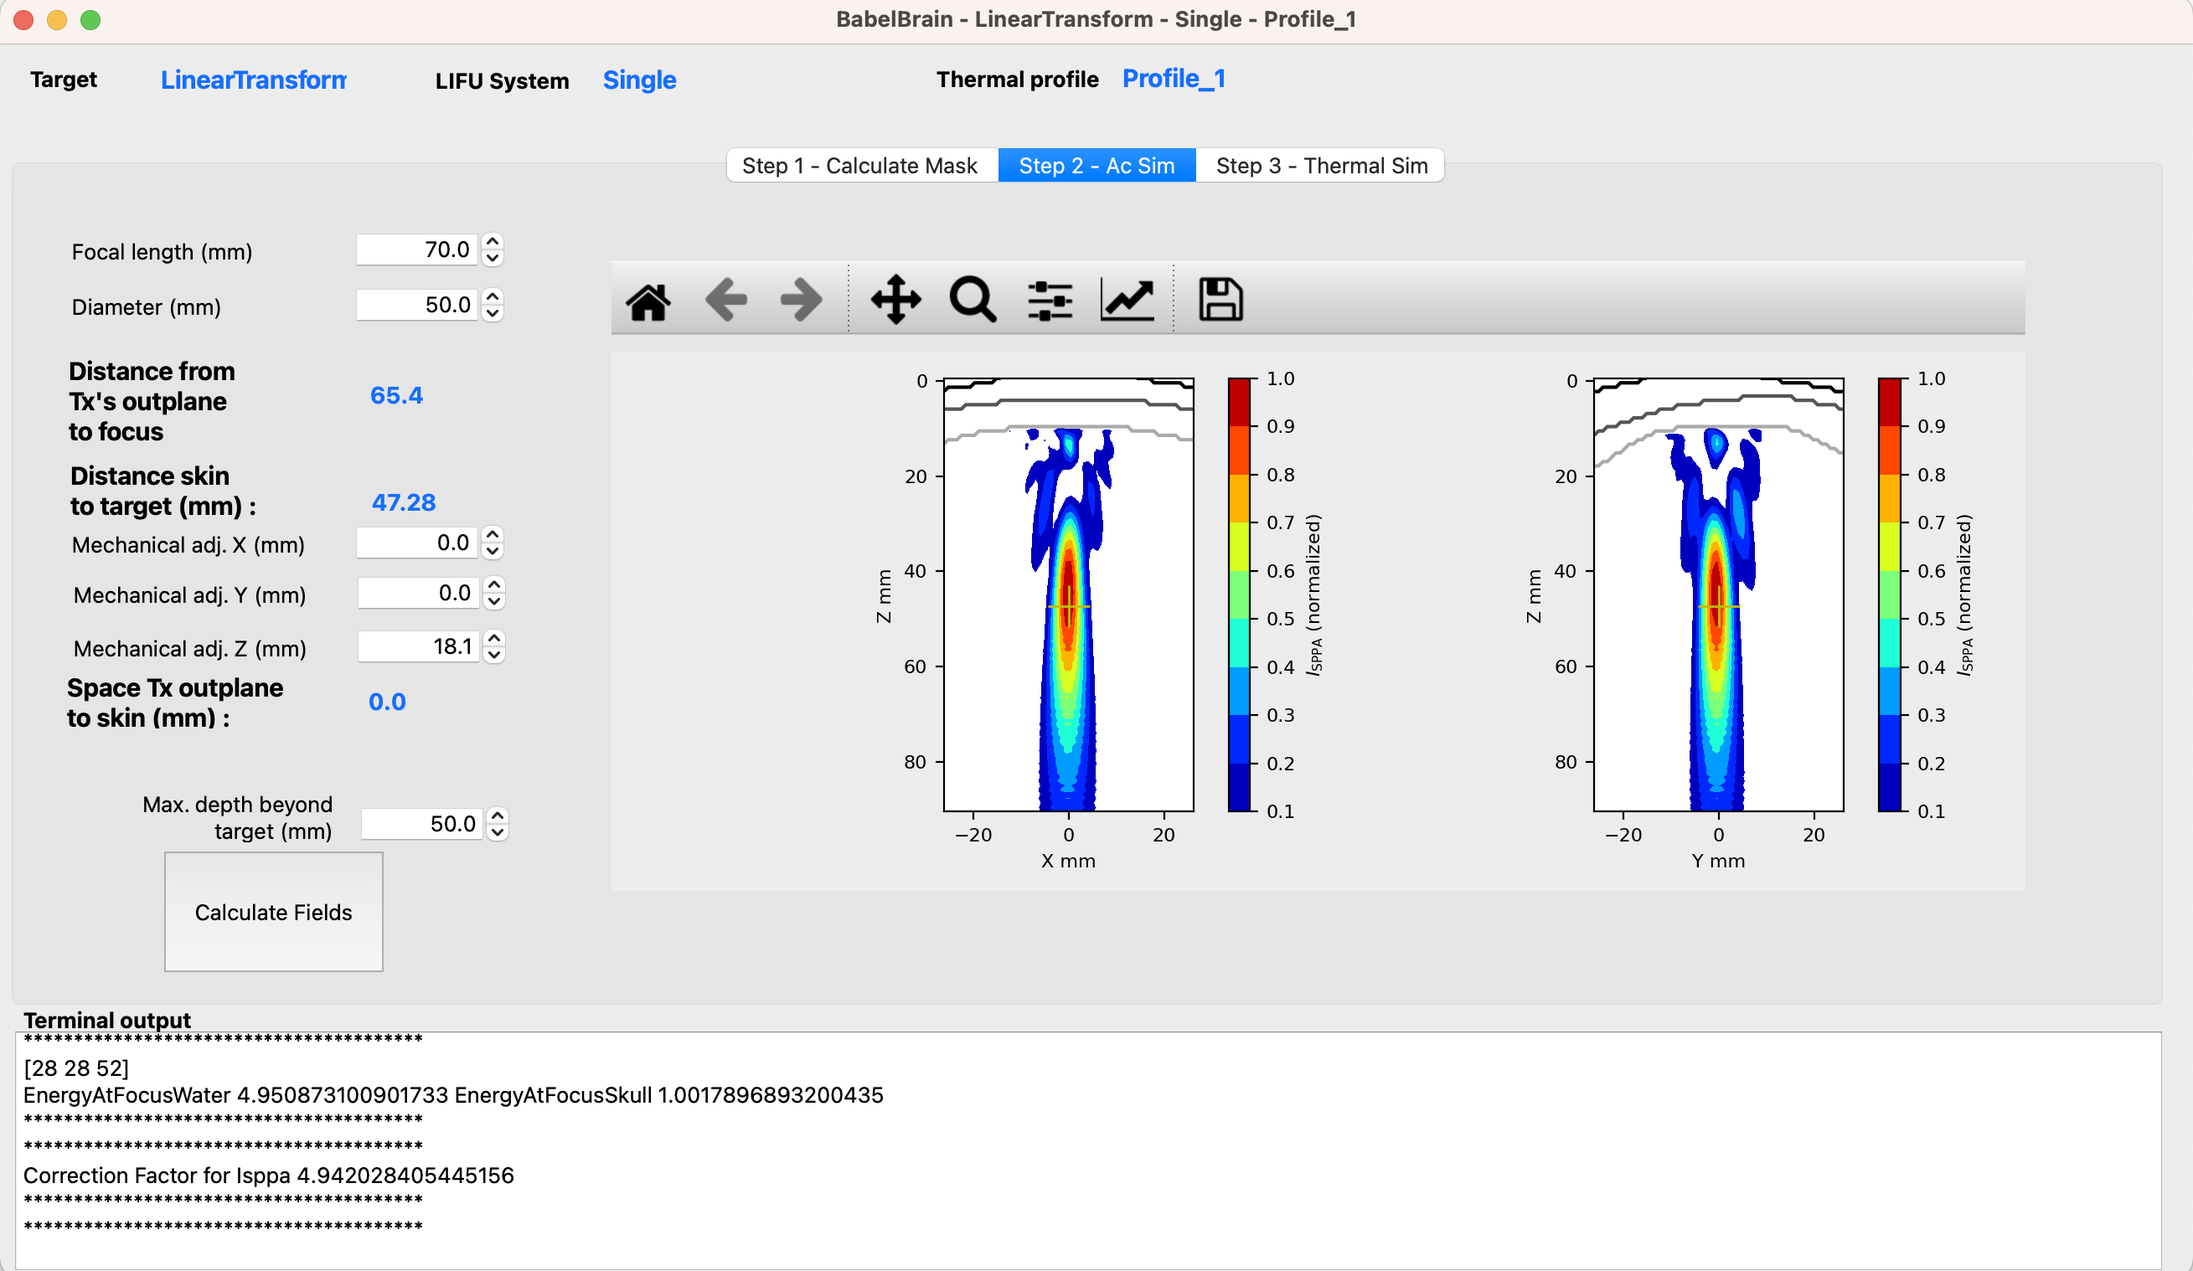
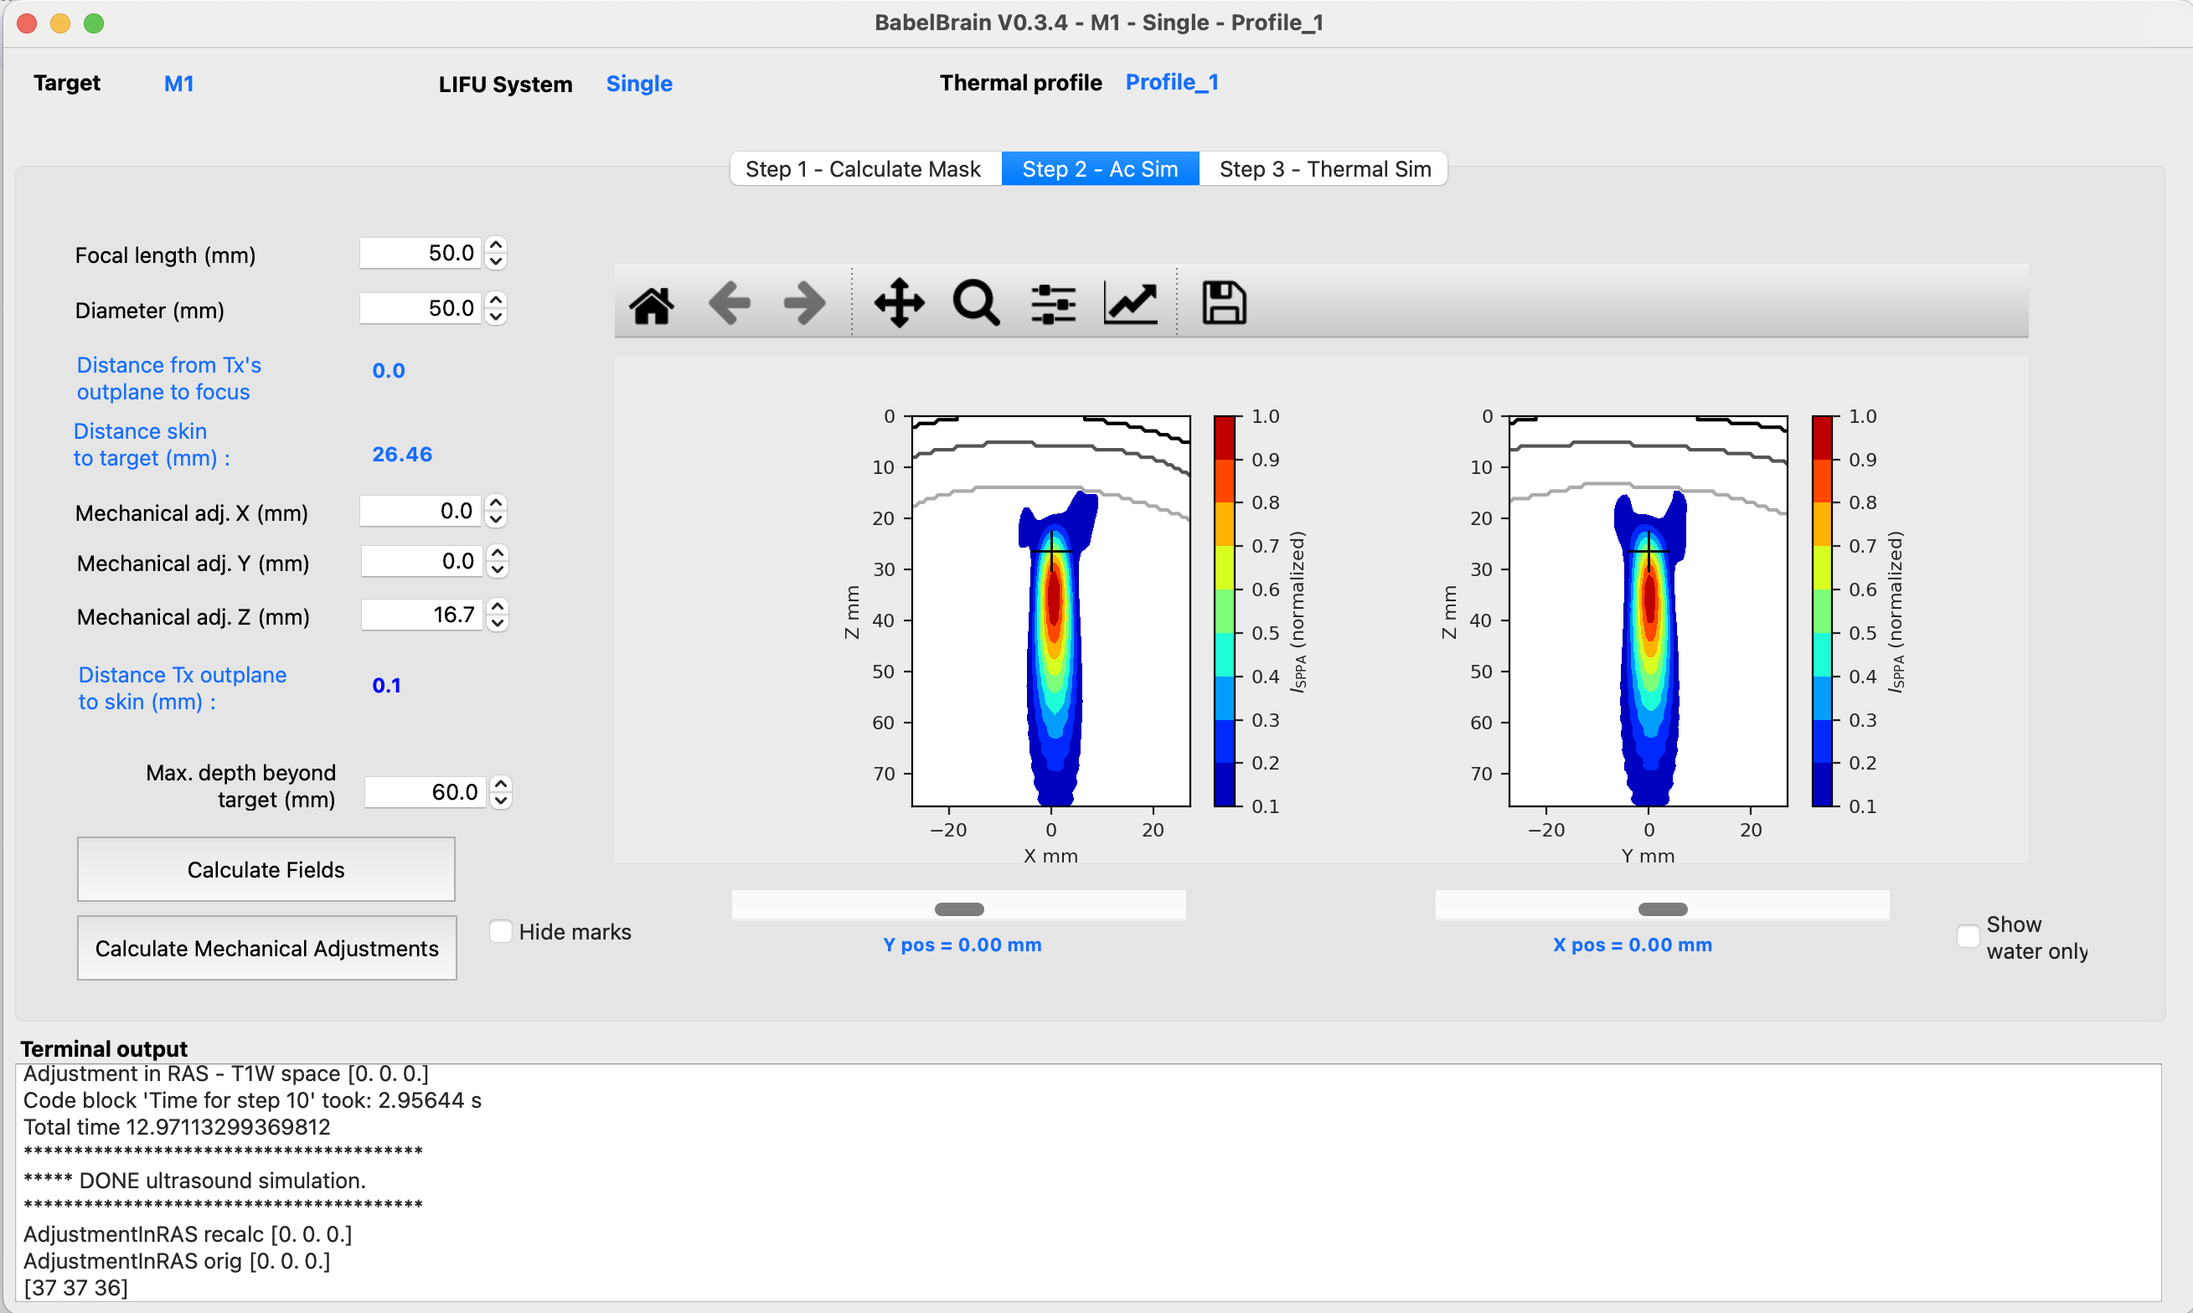
update for r0.3.4

diff --git a/docs/docs/pipeline/pipeline.md b/docs/docs/pipeline/pipeline.md
@@ -6,11 +6,14 @@ BabelBrain takes 3D imaging data (MRI and, if available, CT) along with a trajec
 
 Currently, five types of transducers are supported:
 
-* **Single**. This is a simple focusing single-element transducer. The user can specify diameter, focal length and a frequency between 100 kHz and 700 kHz.
-* **H317**. This is a 128-element phased array with a focal length of 135 mm and F#=0.9. The device is capable to operate at 250 kHz and 700 kHz.
+* **Single**. This is a simple focusing single-element transducer. The user can specify diameter, focal length and a frequency between 100 kHz and 1 MHz.
+* **H317**. This is a 128-element phased array with a focal length of 135 mm and F#=0.9. The device is capable to operate at 250, 700 and 825 kHz.
 * **CTX_500**. This is a device commercialized by the company NeuroFUS that has 4 ring elements, with a focal length of 63.2 mm and F# = 0.98, and operates at 500 kHz.
 * **H246**. This is a flat ring-type device that has 2 annular elements, with a diameter of 33.6 mm and operates at 500 kHz. It offers some degree of focusing by using two transducer elements.
 * **BSonix**. These are devices commercialized by the company Brainsonix at fixed focal lengths of 35, 55, 65 and 80 mm as reported in [Schafer *et al.*](https://doi.org/10.1109/TUFFC.2020.3006781).
+* * **I12378**. This is a 128-element device operating at 650 kHz with a focal length of 72 mm and F#=0.7.
+* **ATAC**. This is a 128-element device operating at 1 MHz with a focal length 53.2 mm and F#=0.9.
+* **REMOPD**.This is a 256-element flat 2D array operating at 300 kHz with a diameter of 58 mm.
 
 The specific capabilities of each transducer are considered during the simulations. 
 
@@ -201,12 +204,30 @@ An input dialog will prompt the different input files required for the simulatio
              DurationOff: 50.0
      ```
 
-    When running the thermal simulation step, all the combinations specified in the thermal profile will be calculated. 
+    When running the thermal simulation step, all the combinations specified in the thermal profile will be calculated.
+     
 
+7. Select the type of transducer to be used in simulations.
 
-6. Select the type of transducer to be used in simulations.
+6. Optional. Select a multi-point profile file for simulations. BabelBrain offers the possibility to execute electronic steering over a list of points if a concave array is selected. If any of the three concave arrays is selected (H317, I12378 and ATAC), the user can select a profile definition specific to multi-point steering. This is a simple YAML file where the timings of transcranial ultrasound are specified. For example:
+   
+     ```
+     MultiPoint:
+     -   X: 2.0
+         Y: 0.0
+         Z: 0.0
+     -   X: -1.0
+         Y: 1.73205081
+         Z: 0.0
+     -   X: -1.0
+         Y: -1.73205081
+         Z: 0.0
+     ```
+
+    In this example, we create a 3-point steering list that makes a 3-point star with a radius from the origin of 2 mm.
 
 7. Once all inputs are set, then click on "CONTINUE"
+   
 ## 3.b - Domain generation
 The diagram below shows flowchart describing the process for the domain generation.
 
@@ -240,24 +261,31 @@ The second tab in the GUI of BabelBrain shows the ultrasound simulation step.  T
 
 <img src="nsclc2-V2.svg" height=600px>
 
-The choices of this tab will depend on the selected transducer. Simulation results in this step are shown in normalized conditions. The final step (see below) later will show the results denormalized in function of the selected intensity at the target. Common to all transducers, the distance of the maximal depth beyond the target location is set to a user-configurable distance of 40 mm.
+The choices of this tab will depend on the selected transducer. Simulation results in this step are shown in normalized conditions. The final step (see below) later will show the results denormalized in function of the selected intensity at the target. 
+
+Common to all transducers, the distance of the maximal depth beyond the target location is set to a user-configurable distance of 40 mm.
+
+Also, all transducers show an action to perform automatic mechanical corrections in the direction perpendicular to the ultrasound propagation. See below the details in the explanations for the CTX 500 device regarding mechanical corrections.
 
 ### 3.c.i - CTX_500
-For the CTX_500 transducer, the initial assumption is that this type of transducer will be placed in direct contact with the skin and that the focusing distance will be adjusted according to the desired target. 
+<img src="Simulation-7.png" height=350px>
 
-<img src="Simulation-5.png" height=350px>
+For the CTX_500 transducer, the initial assumption is that this type of transducer will be placed in direct contact with the skin and that the focusing distance will be adjusted according to the desired target. 
 
 The initial "TPO Distance" (an adjustable parameter in the CTX_500 device) is calculated based on the distance skin to the target. 
 
 It is recommended to simulate with the default values to evaluate the degree of focus shift caused by the skull. Simulation should take a couple of minutes in a M1 Max system.
 
-<img src="Simulation-6.png" height=450px> 
+The results window will show two orthogonal views of normalized acoustic intensity. The intensity in the skin and skull regions is masked out (it can be visualized later in those regions in step 3). In this step, the main goal is to ensure a correct spatial focusing on the target. In the example, a shift of 5 mm of the focal spot towards the transducer can be observed. This shift can be corrected by adding 5 mm in the TPO Distance input (in the example, we adjust to 52.5 mm). 
 
-The results window will show two orthogonal views of normalized acoustic intensity. The intensity in the skin and skull regions is masked out (it can be visualized later in those regions in step 3). In this step, the main goal is to ensure a correct spatial focusing on the target. In the example, a shift of 5 mm of the focal spot towards the transducer can be observed. This shift can be corrected by adding 5 mm in the TPO Distance input (in the example, we adjust to 52.5 mm). Also, there is a small lateral shift in the negative "Y" direction. This can be corrected with the "Mechanical" adjustment controls (in this example we adjust +1mm in the Y direction). Please note that in the simulation domain, X, Y and Z are not mapped to subject coordinates. However, at the end of the simulations, there will be a report in which direction in the T1W space this adjustment translates. 
+Also, there is a small lateral shift in the negative "Y" direction. This can be corrected with the "Mechanical" adjustment controls (in this example we adjust +1mm in the Y direction). 
+ 
+After running a first pass of simulations in Step 2, a button action is available to calculate the distance from the target to the center of mass of the focal spot at -6dB and suggest applying the required mechanical corrections in X and Y directions. This action should help to minimize the number of iterations in simulations looking to ensure the focal spot is aligned in the X and Y directions to the intended target.
 
-After doing the adjustments, the simulation can be repeated.
+Please note that in the simulation domain, X, Y and Z are not mapped to subject coordinates. However, at the end of the simulations, there will be a report in which direction in the T1W space this adjustment translates. 
 
-<img src="Simulation-7.png" height=450px> 
+After making the adjustments, the simulation can be repeated.
+
 
 ### 3.c.ii - H246
 The H246 transducer has a similar operation as the CTX_500. The steps presented above apply similarly. As the H246 transducer has a much longer focal length, consider extending the maximal depth of simulations.
@@ -265,20 +293,25 @@ The H246 transducer has a similar operation as the CTX_500. The steps presented 
 <img src="Simulation-9.png" height=450px>
 
 
-### 3.c.iii - H317
-The H317 is a large transducer that uses a coupling cone that is in contact with the skin. The user interface shows small differences compared to CTX_500 and H246. There is a parameter for the `Distance cone to Focus` that depends on the acoustic cone used for coupling. Because this transducer has 128 elements, the user interface shows also the option to perform electronic refocusing.
+### 3.c.iii - H317, I12378 and ATAC
+These transducers assume that a coupling cone is in contact with the skin. The user interface shows small differences compared to CTX_500 and H246. There is a parameter for the `Distance cone to Focus` that depends on the acoustic cone used for coupling. Because these transducers are phased arrays, the user interface shows also the option to perform electronic refocusing and multifocus.
  
 <img src="Simulation-10.png" height=450px>
 
 ### 3.c.iv - Single
-The "Single" transducer is a generic device with a configurable diameter and focal length. Because this is a more general-purpose device, it is not assumed that the transducer is in direct contact with the skin. The transducer is always initially centered at the target, which can make that there could be some space between the transducer out plane and the skin. The user can adjust the mechanical distance on the Z axis until the point the out plane of the transducer reaches the skin.
+The "Single" transducer is a generic device with a configurable diameter and focal length. Because this is a more general-purpose device, it is not assumed that the transducer is in direct contact with the skin. The transducer is always initially centered at the target, which means that there could be some space between the transducer out plane and the skin. The user can adjust the mechanical distance on the Z axis until the point of the out plane of the transducer reaches the skin.
  
 <img src="Simulation-11.png" height=450px>
 
-### 3.c.iv - BSonix
-These are commercial transducers with fixed focal lengths as reported in [Schafer *et al.*](https://doi.org/10.1109/TUFFC.2020.3006781). The user can select focal length of 55, 65 and 80 mm. Similar to the CTX_500, it is assumed the device is in direct contact with the skin, with the option to move the transducer away from the skin to simulate placing a coupling pad. 
+### 3.c.v - BSonix
+These are commercial transducers with fixed focal lengths as reported in [Schafer *et al.*](https://doi.org/10.1109/TUFFC.2020.3006781). The user can select focal length of 35, 55, 65 and 80 mm. Similar to the CTX_500, it is assumed the device is in direct contact with the skin, with the option to move the transducer away from the skin to simulate placing a coupling pad. 
  
 <img src="Simulation-13.png" height=450px>
+
+### 3.c.vi - REMOPD
+This transducer is a flat device that shows features that combine functionalities similar to the H246 and phased arrays.
+
+<img src="Simulation-14.png" height=450px>
 
 ## 3.d - Thermal simulation
 The third tab in the GUI of BabelBrain shows the thermal simulation step.  The diagram below shows a flowchart of this step.
@@ -290,6 +323,8 @@ The thermal simulation solves the Bio-heat thermal equation (BHTE) for all the c
 <img src="Simulation-12.png" height=450px>
 
 The selection of spatial-peak pulse-average intensity ($I_{\text{SPPA}}$) indicates the desired intensity at the target. The spatial-peak time-average intensity ($I_{\text{SPTA}}$) is calculated based on the selected timing conditions.  Based on the selections of timing and desired $I_{\text{SPPA}}$ in tissue, the $I_{\text{SPPA}}$ in water conditions is calculated after taking into account all the losses. Thermal safety parameters (maximal temperature and thermal doses) in the skin, skull bone and brain tissue are calculated at the locations showing the highest temperature elevation in the whole 3D volume. The `MTB`, `MTS` and `MTC` push buttons in the lower region of the interface select the slice corresponding to the the maximal temperature in brain, skin and skull, respectively.
+
+The `Update Profile and Calculate` action can be used to load an updated version of the thermal profile file. This will force the recalculation of thermal results.
 
 The `Export summary (CSV)` action exports the input data paths and user selections used for the simulations. It also includes a table of $I_{\text{SPPA}}$ in water conditions and safety metrics in function of the desired $I_{\text{SPPA}}$ in tissue. Below there is an example of the exported data.
 
@@ -303,3 +338,4 @@ The `Export summary (CSV)` action exports the input data paths and user selectio
 | 3     | 14.31      | 0.43 | 0.9   | 0.20 | 0.09 | 0.11 | 0.000382002 | 0.000351024 | 0.000356431 |
 | ...    | ...     | ...  | ...    | ...  | ...  | ...  |...  | ...  | ...  |
 
+The `Export Current Thermal map (.nii.gz)` action exports the current thermal simulation on display in Nifti format for inspection in neuronavigation and visualization software

diff --git a/docs/docs/installation.md b/docs/docs/installation.md
@@ -5,12 +5,12 @@ Installation and Running
 Currently, macOS (ARM64, X64), Windows/Linux (X64) are supported. Windows users can run BabelBrain natively or via [WSL2](https://learn.microsoft.com/en-us/windows/wsl/install) with NVidia GPUs (see this [guide](https://docs.nvidia.com/cuda/wsl-user-guide/index.html)). 
 
 ### GPU
-BabelBrain supports GPUs enabled via CUDA, OpenCL or Metal. High-end GPUs (8 GPU RAM or more) are recommended. ARM64 processors (M1, M2, M3) in Mac systems with 16GB or more RAM are highly recommended. BabelBrain was designed with Mac systems based on M1 and M2 processors as primary targets. 
+BabelBrain supports GPUs enabled via CUDA, OpenCL or Metal. High-end GPUs (8 GPU RAM or more) are recommended. ARM64 processors (M1, M2, M3 families) in Mac systems with 16GB or more RAM are highly recommended. BabelBrain was designed with Mac systems based on Mx processors as primary targets. 
 #### Note for Intel-based Mac systems
 Intel-based systems need to have a dedicated AMD GPU (internal or external via Thunderbolt). Intel-based iMac Pro and MacPro systems have internal GPUs suitable for sub 500 kHz simulations (i.e., Vega 56, Vega 64). An external GPU (i.e., AMD W6800 Pro) offers excellent performance and capability for high-frequency simulations.
-## Extra software required to run BabelBrain
-### Blender
-[Blender](https://www.blender.org) is required for constructive solid geometry operations. Install with default options.
+
+**Important note**. Before v0.3.4, BabelBrain required having installed Blender for some CSG operations. This is not required anymore for v0.3.4 and up.
+
 
 ### SimNIBS
 While BabelBrain does not invoke directly SimNIBS tools, BabelBrain depends on the output generated by SimNIBS 3.x `headreco` or SimNIBS 4.x `charm` processing tools. Consult the [Releases](https://github.com/simnibs/simnibs/releases) section in SimNIBS for installation options. We recommended using SimNIBS 4.x `charm` for better results.
@@ -25,7 +25,7 @@ While not strictly required, it is highly recommended to use planning software t
 Starting with BabelBrain v0.3.2 and Brainsight v2.5.3, BabelBrain can be directly called from Brainsight, importing simulations automatically once the BabelBrain execution is completed.
 
 # Standalone application
-Ready-to-use applications (no need for Python installation) for macOS and Windows are available in the [Releases](https://github.com/ProteusMRIgHIFU/BabelBrain/releases) section. Please note that for macOS there are installers for ARM64 (M1 and newer Apple Silicon processors) and Intel X64, so be sure of picking the correct version matching your hardware. 
+Ready-to-use applications (no need for Python installation) for macOS and Windows are available in the [Releases](https://github.com/ProteusMRIgHIFU/BabelBrain/releases) section. Please note that for macOS there are installers for ARM64 (M1 and newer Apple Silicon processors) and Intel X64, so be sure to pick the correct version matching your hardware. 
 
 For MacOS, open the DMG file and double-click on the package installer. 
 
@@ -35,7 +35,7 @@ The first time you will use you may be prompted to authorize it to run and acces
 
 For Windows, download the MSI installer file and run to install BabelBrain. Shortcuts will be created in the Desktop and Start menu. **Note**: CUDA 11.7+ must be installed.
 
-Keep a copy of the `PlanningModels` and `ThermalProfiles` directories. `PlanningModels` contain STL files useful for the planning of TUS. `ThermalProfiles` contains examples of timings of the TUS exposure (total duration on, duration off, duty cycle).
+Keep a copy of the `PlanningModels` and `Profiles` directories. `PlanningModels` contain STL files useful for the planning of TUS. `Profiles` contains examples of timings of the TUS exposure (total duration on, duration off, duty cycle).
 
 # Manual Installation 
 Python 3.9/3.10. Anaconda/miniconda is recommended. - if running in Apple ARM64 processors (M1, M1 Max, etc.), be sure to use a native ARM64 version.

diff --git a/docs/docs/index.md b/docs/docs/index.md
@@ -1,7 +1,7 @@
 BabelBrain 
 =============
-**v0.3.2**  
-March 5th, 2024.
+**v0.3.4**  
+April 5th, 2024.
 
 Samuel Pichardo, Ph.D  
 Associate Professor  
